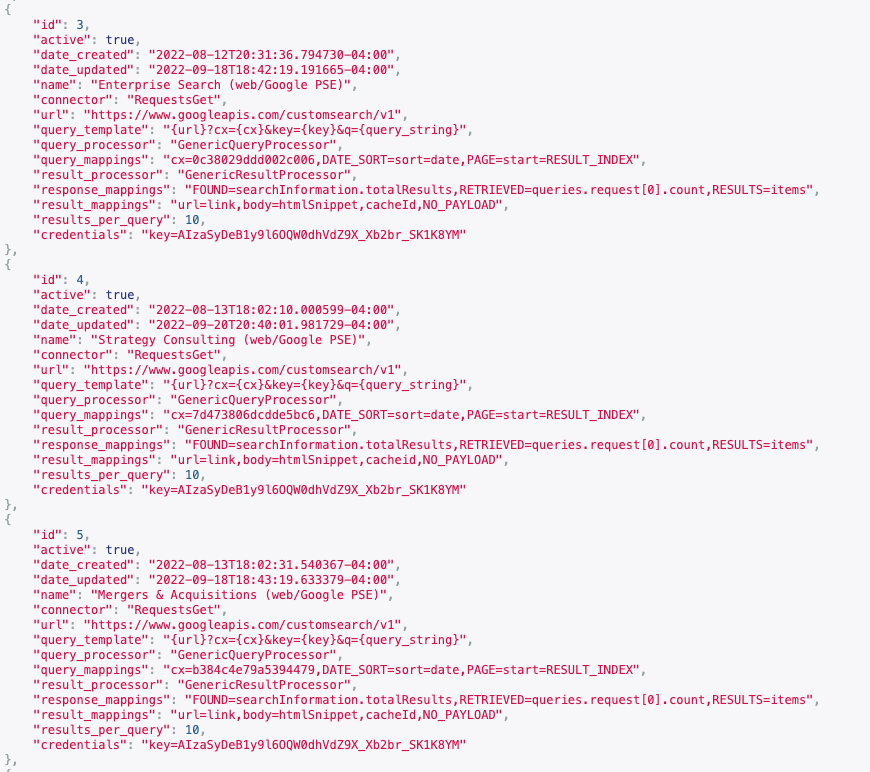
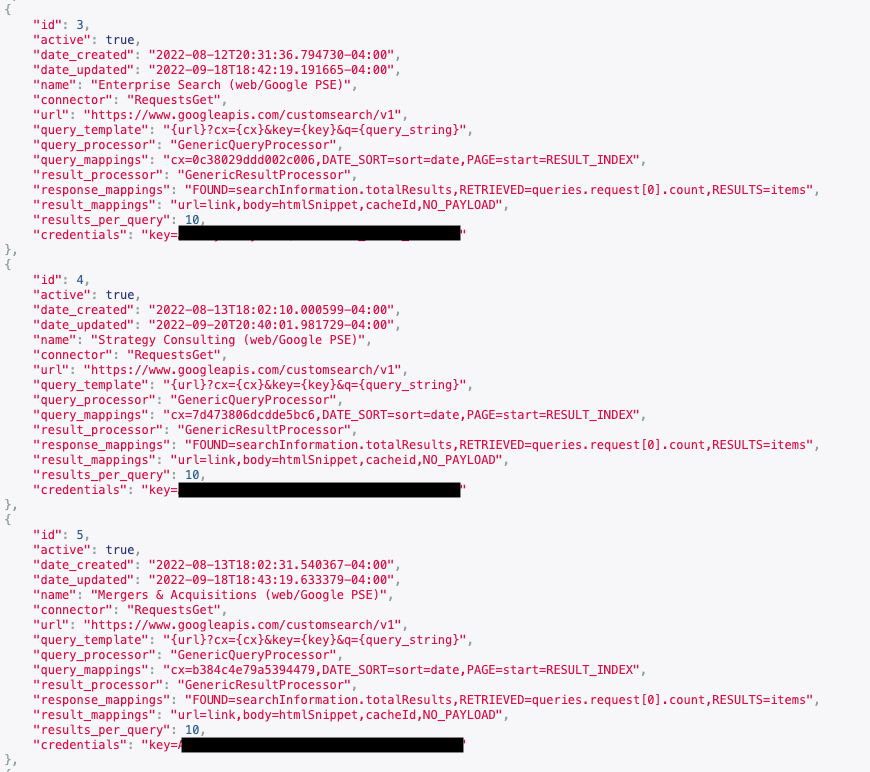
Removed codes, fixed layout

Changed region(s): [[0.1862, 0.9326, 0.5276, 0.9948], [0.1862, 0.6218, 0.5276, 0.6528], [0.1862, 0.2798, 0.5276, 0.3109]]

diff --git a/README.md b/README.md
@@ -4,7 +4,7 @@
 
 SWIRL is the first open source, [Federated Search Engine](https://en.wikipedia.org/wiki/Federated_search)! 
 
-SWIRL makes it easy for search developers, data scientists and power users to search multiple search engine silos at once and quickly receive unified results *without* extracting and indexing *anything*. It includes connectors to elastic, solr, Google PSE, NLResearch.com, generic HTTP/GET/JSON and Sqlite3 that are easy to configure, without writing code. Then use SWIRL's simple REST APIs to run searches and quickly retrieve unified results, re-ranked by SWIRL using built-in cosine-vector similarity plus term, phrase and freshness boosts. 
+SWIRL makes it easy for search developers, data scientists and power users to query multiple search engine silos at once and quickly receive unified results *without* extracting and indexing *anything*. It includes connectors to elastic, solr, Google PSE, NLResearch.com, generic HTTP/GET/JSON and Sqlite3 that are easy to configure, without writing code. Then use SWIRL's simple REST APIs to run searches and quickly retrieve unified results, re-ranked by SWIRL using built-in cosine-vector similarity plus term and phrase boosts.
 
 SWIRL is available under the [Apache 2.0 license](https://github.com/sidprobstein/swirl-search/blob/main/LICENSE), and leans heavily on the popular python/django/celery/rabbit-mq stack - a universe of plug-ins that can extend and integrate SWIRL with a range of existing systems.
 
